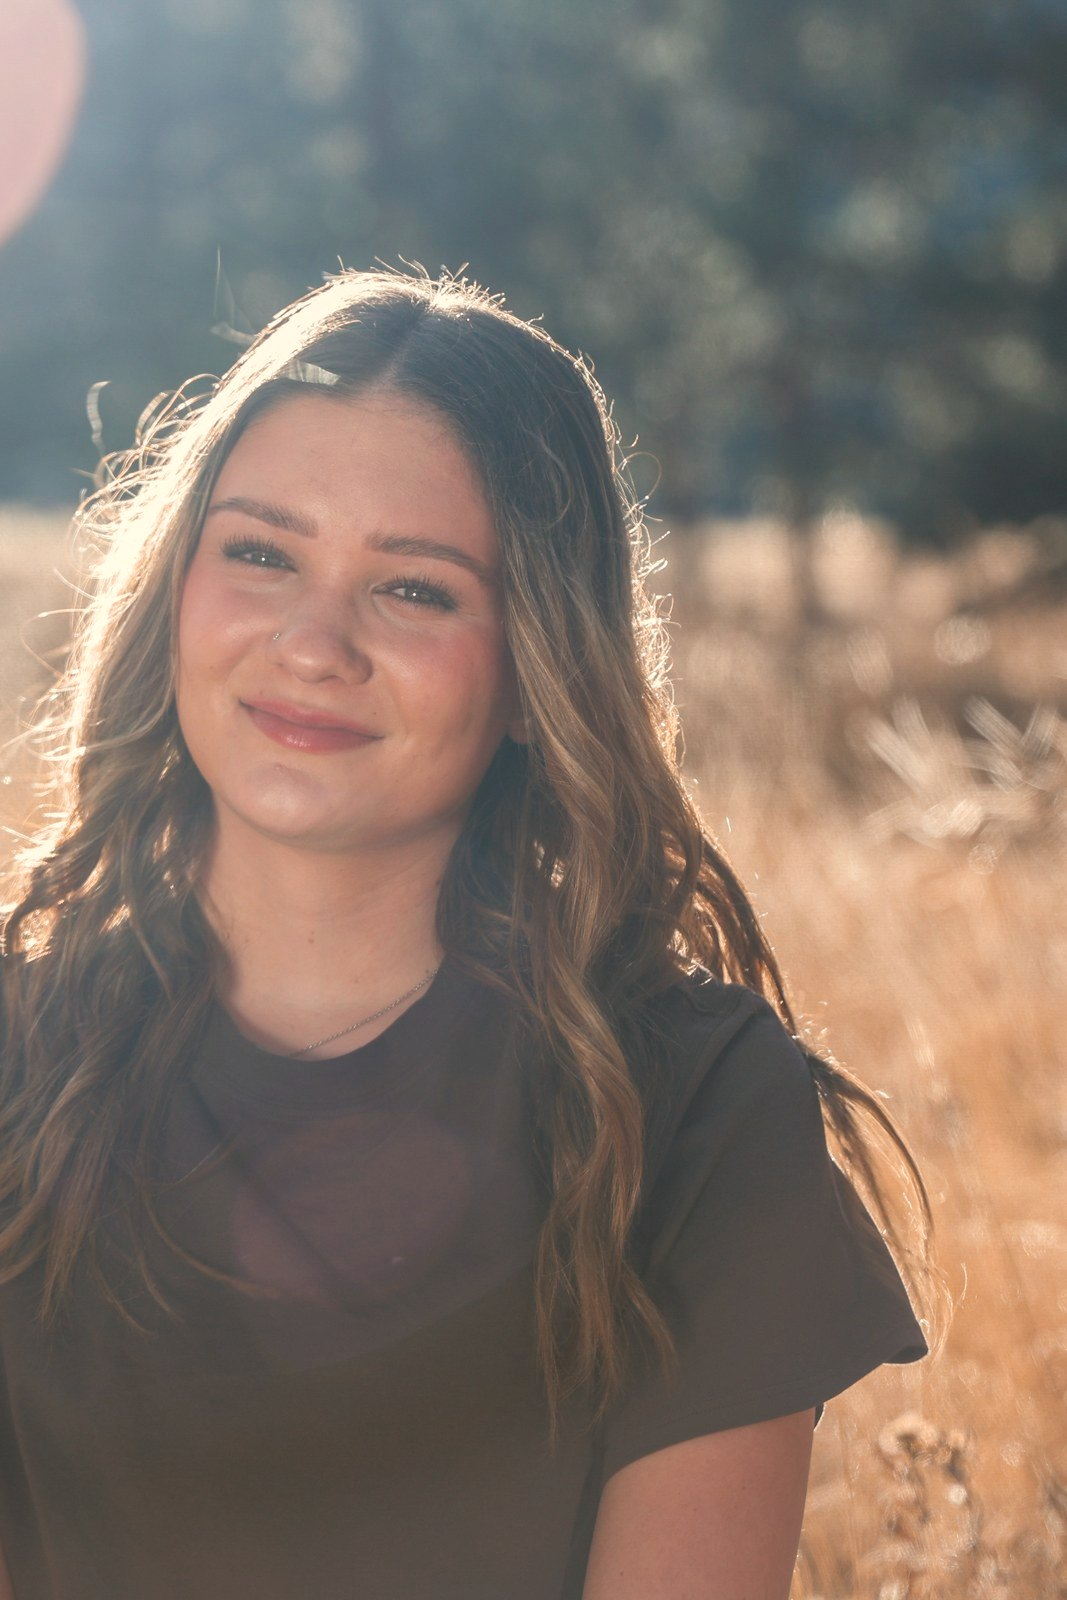
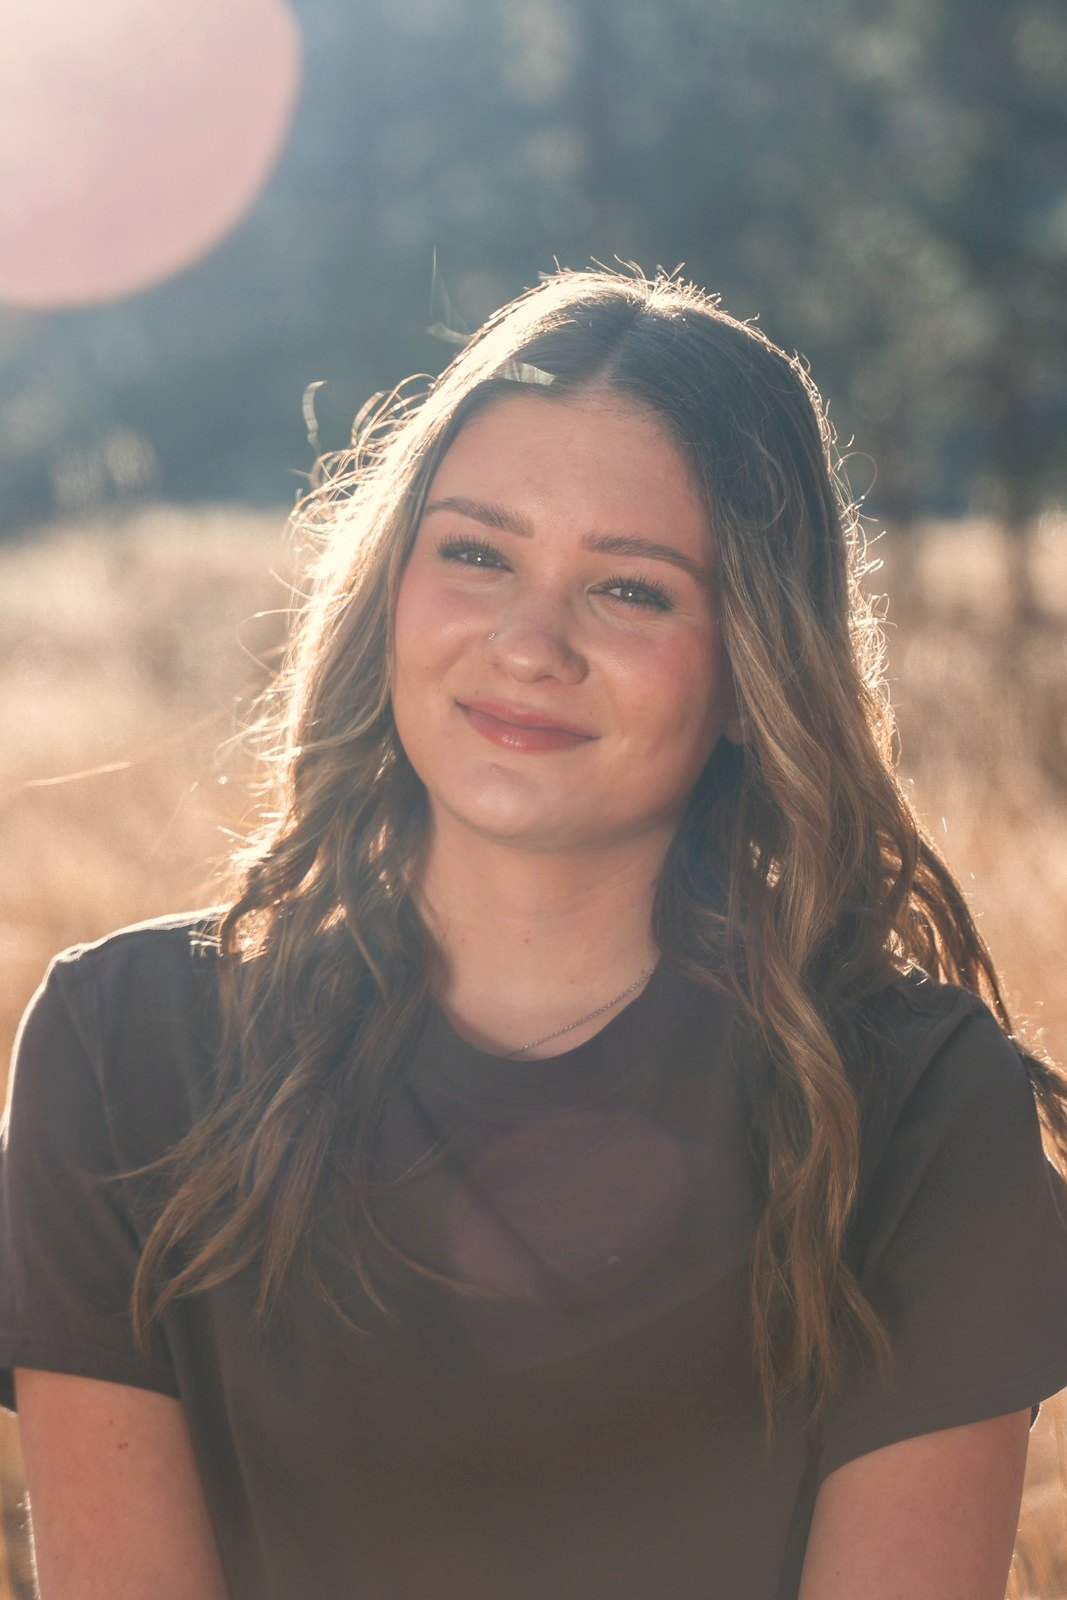
Move two-friends portrait to portraits; center Stella crop; drop duplicate Emma-kneeling

diff --git a/portraits.html b/portraits.html
@@ -76,7 +76,6 @@
       <figure><img src="assets/portrait-06.jpg" alt="Senior portrait outdoors on the Front Range"></figure>
       <figure><img src="assets/portrait-07.jpg" alt="Senior portrait at golden hour in a field"></figure>
       <figure><img src="assets/portrait-09.jpg" alt="Outdoor Colorado portrait"></figure>
-      <figure><img src="assets/portrait-14.jpg" alt="Senior portrait kneeling in a golden field"></figure>
       <figure><img src="assets/portrait-03.jpg" alt="Graduation portrait in Colorado"></figure>
       <figure><img src="assets/portrait-15.jpg" alt="Senior portrait in a white dress in a field"></figure>
       <figure><img src="assets/portrait-12.jpg" alt="Senior portrait in the Colorado pines"></figure>
@@ -84,6 +83,7 @@
       <figure><img src="assets/portrait-02.jpg" alt="Graduation celebration portrait"></figure>
       <figure><img src="assets/portrait-17.jpg" alt="Senior portrait in golden grass at sunset"></figure>
       <figure><img src="assets/portrait-08.jpg" alt="Creative Colorado portrait in greenery"></figure>
+      <figure><img src="assets/portrait-18.jpg" alt="Colorado portrait of two friends at golden hour"></figure>
     </div>
   </div>
 </section>

diff --git a/weddings-couples.html b/weddings-couples.html
@@ -75,7 +75,6 @@
       <figure><img src="assets/couples-01.jpg" alt="Engagement session at a Colorado overlook"></figure>
       <figure><img src="assets/couples-02.jpg" alt="Engagement ring detail, hands on shoulders"></figure>
       <figure><img src="assets/film-05.jpg" alt="Engagement ring detail at golden hour"></figure>
-      <figure><img src="assets/couples-19.jpg" alt="Colorado couple at sunset among the trees"></figure>
       <figure><img src="assets/film-02.jpg" alt="Couple at a Colorado mountain lake"></figure>
       <figure><img src="assets/couples-05.jpg" alt="Couple at sunset in a Front Range field"></figure>
       <figure><img src="assets/wedding-02.jpg" alt="Outdoor Colorado wedding ceremony"></figure>
